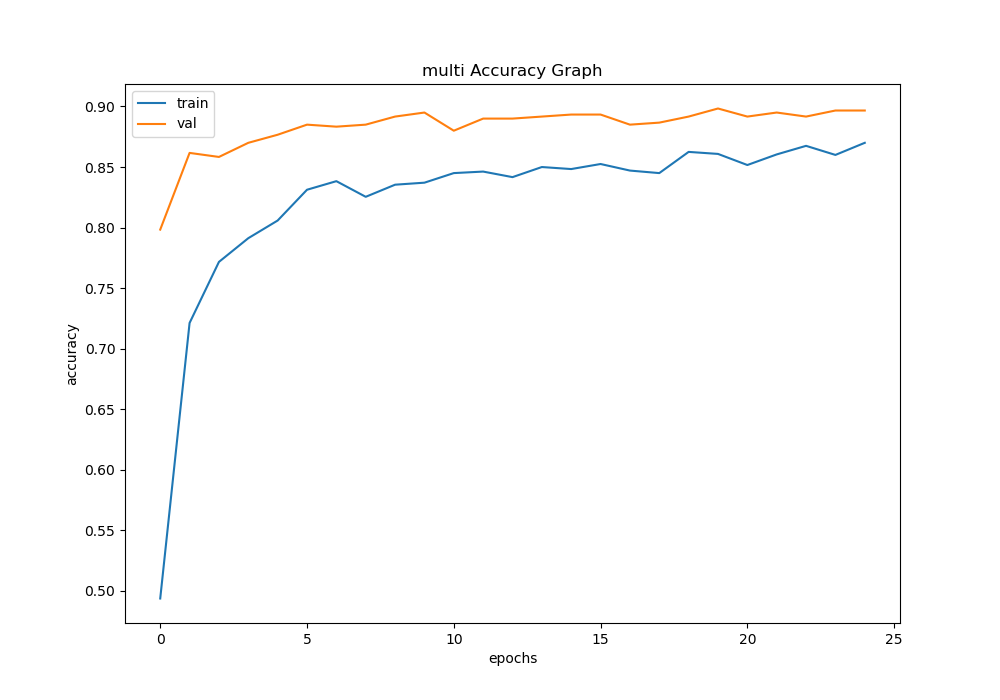
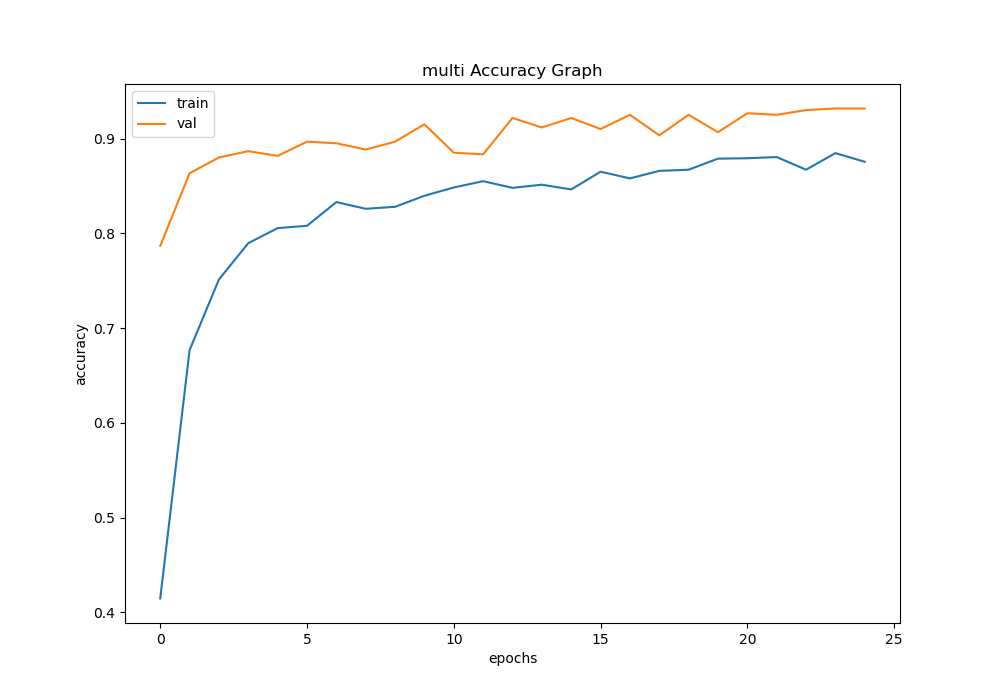
multimodel uses concat layer

diff --git a/prediction/prediction.py b/prediction/prediction.py
@@ -6,7 +6,7 @@ import cv2
 from tqdm import tqdm
 
 audionet_model_path = "C:/Users/Administrator/Desktop/Sam/Multimodal_Fusion/trained_models/audionet.h5"
-image_model_path = "C:/Users/Administrator/Desktop/Sam/Multimodal_Fusion/trained_models/resnet.h5"
+image_model_path = "C:/Users/Administrator/Desktop/Sam/Multimodal_Fusion/trained_models/resnet_80.h5"
 multi_model_path = "C:/Users/Administrator/Desktop/Sam/Multimodal_Fusion/trained_models/multimodal.h5"
 
 audionet = load_model(audionet_model_path)
@@ -21,10 +21,31 @@ multi_model = load_model(multi_model_path)
 
 labels = ["bird", "dog", "car"]
 
+
+def preprocess_mfcc(mfcc_):
+    mfcc = mfcc_.replace("[", "").replace("]", "")
+    mfcc = mfcc.replace("\n", "")
+    mfcc = mfcc.split()
+    mfcc = np.array(mfcc).astype(np.float32)
+    mfcc = mfcc.reshape(1, 40)
+
+    return mfcc
+
+
+def preprocess_img(img_path_):
+    image = cv2.imread(img_path_)
+    image = cv2.resize(image, (100, 100), cv2.INTER_LINEAR)
+    image = image / 255.0
+    image = np.array(image)
+    image = image.reshape(1, 100, 100, 3)
+
+    return image
+
+
 print("*********************************************************")
 
-# Audio prediction
-mfcc = '''[-3.27780884e+02  1.21065681e+02 -4.00812073e+01 -4.06821175e+01
+# Single audio and image prediction
+audio_mfcc = '''[-3.27780884e+02  1.21065681e+02 -4.00812073e+01 -4.06821175e+01
  -3.77676697e+01 -1.91292000e+01 -2.07194901e+01 -2.42134333e+00
  -2.60565434e+01  1.09487743e+01  1.23772955e+01  7.53735352e+00
   8.41231823e+00  6.79377794e+00 -6.95381212e+00 -1.46880264e+01
@@ -34,47 +55,30 @@ mfcc = '''[-3.27780884e+02  1.21065681e+02 -4.00812073e+01 -4.06821175e+01
  -1.35454893e+00  1.06728697e+00 -2.02247739e+00  2.17973781e+00
   2.66387272e+00  2.81490564e+00 -2.13995978e-01  4.38734554e-02
  -2.52553010e+00 -3.41716957e+00 -2.28755403e+00 -5.28283834e-01]'''
+img_path = "C:/Users/Administrator/Desktop/Sam/Multimodal_Fusion/my_coco/all/images/n02085782_82.jpg"
 
-# Process mfcc
-mfcc = mfcc.replace("[", "").replace("]", "")
-mfcc = mfcc.replace("\n", "")
-mfcc = mfcc.split()
-mfcc = np.array(mfcc).astype(np.float32)
-mfcc = mfcc.reshape(1, 40)
+# Process mfcc and image
+prep_mfcc = preprocess_mfcc(audio_mfcc)
+prep_img = preprocess_img(img_path)
 
 # Predict audio
-a1_pred = audionet.predict(mfcc.reshape(1, 40))
-
-# Extract audio features
-a2_pred = audionet2.predict(mfcc.reshape(1, 40))
+audio_pred = audionet.predict(prep_mfcc)
+img_pred = resnet.predict(prep_img)
+multi_pred = multi_model.predict([prep_mfcc, prep_img])
 
 # Print prediction and features
-print("audionet pred: ", labels[a1_pred.argmax()])
-print("confidence: ", round((a1_pred.max() * 100), 2))
-
-###################################################################################
-img_path = "C:/Users/Administrator/Desktop/Sam/Multimodal_Fusion/my_coco/all/images/n02085782_82.jpg"
-# img_path = "C:/Users/Administrator/Desktop/German-shepherd.jpg"
-img = cv2.imread(img_path)
-img = cv2.resize(img, (100, 100), cv2.INTER_LINEAR)
-img = img / 255.0
-img = np.array(img)
-img = img.reshape(1, 100, 100, 3)
-
-img_pred = resnet.predict(img)
-img_pred2 = resnet2.predict(img)
+print("Single Prediction")
+print("audionet pred: ", labels[audio_pred.argmax()])
+print("confidence: ", round((audio_pred.max() * 100), 2))
+print("")
 print("resnet pred: ", labels[img_pred.argmax()])
 print("confidence: ", round((img_pred.max() * 100), 2))
 print("")
-
-m_pred = multi_model.predict([mfcc, img])
-print("multi pred: ", labels[m_pred.argmax()])
-print("confidence: ", round((m_pred.max() * 100), 2))
+print("multi pred: ", labels[multi_pred.argmax()])
+print("confidence: ", round((multi_pred.max() * 100), 2))
 print("")
-####################################################################################
-# Multimodal prediction
 
-#
+# Batch prediction
 df = pd.read_csv('../data/multi/test.csv')
 
 mfccs = df['mfcc'].tolist()
@@ -87,47 +91,35 @@ total2 = 0
 total3 = 0
 
 for i, m in tqdm(enumerate(mfccs)):
-    m = m.replace("[", "").replace("]", "")
-    m = m.replace("\n", "")
-    m = m.split()
-    m = np.array(m).astype(np.float32)
-    m = m.reshape(1, 40)
+    m = preprocess_mfcc(m)
 
     image_path = img_base + images[i]
-    img = cv2.imread(image_path)
-    img = cv2.resize(img, (100, 100), cv2.INTER_LINEAR)
-    img = img / 255.0
-    img = np.array(img)
-    img = img.reshape(1, 100, 100, 3)
+    img = preprocess_img(image_path)
 
     multi_pred = multi_model.predict([m, img])
     img_pred = resnet.predict(img)
     a1_pred = audionet.predict(m)
 
-    m_pred1 = labels[multi_pred.argmax()]
+    m_pred = labels[multi_pred.argmax()]
     m_conf = round((multi_pred.max() * 100), 2)
 
-    i_pred1 = labels[img_pred.argmax()]
+    i_pred = labels[img_pred.argmax()]
     i_conf = round((img_pred.max() * 100), 2)
 
-    a_pred1 = labels[a1_pred.argmax()]
+    a_pred = labels[a1_pred.argmax()]
     a_conf = round((a1_pred.max() * 100), 2)
 
     true_label = true_labels[i]
 
-    if m_pred1 == true_label and m_conf > 50.0:
+    if m_pred == true_label and m_conf > 50.0:
         total1 += 1
 
-    if i_pred1 == true_label and i_conf > 50.0:
+    if i_pred == true_label and i_conf > 50.0:
         total2 += 1
 
-    if a_pred1 == true_label and a_conf > 50.0:
+    if a_pred == true_label and a_conf > 50.0:
         total3 += 1
-    print("predicted: ", labels[multi_pred.argmax()])
-    print("true label: ", true_labels[i])
-    print("confidence: ", round((multi_pred.max() * 100), 2))
-    # print("------------------------------")
 
-print("multi score: " + str(total1) + "/" + str(len(true_labels)))
-print("image score: " + str(total2) + "/" + str(len(true_labels)))
 print("audio score: " + str(total3) + "/" + str(len(true_labels)))
+print("image score: " + str(total2) + "/" + str(len(true_labels)))
+print("multi score: " + str(total1) + "/" + str(len(true_labels)))

diff --git a/models/model.py b/models/model.py
@@ -80,7 +80,7 @@ def multi_model(input_tensor1, input_tensor2, input_shape1, input_shape2, num_cl
 def multi_model2(audionet, resnet, num_classes):
     # audionet._name = 'audionet'
     # resnet._name = 'resnet'
-    merge = Add(name='merge_A')([audionet.output, resnet.output])
+    merge = Concatenate(name='concat_A')([audionet.output, resnet.output])
     fc = FC2(merge, num_classes)
     model = Model(inputs=[audionet.input, resnet.input], outputs=fc)
     return model
@@ -147,7 +147,7 @@ def audio_net2(input_shape, num_classes):
     model.add(Dropout(0.5, name='dropout_A'))
     model.add(Dense(1024, activation="relu", name='dense_B'))
     model.add(Dropout(0.5, name='dropout_B'))
-    model.add(Dense(64, activation="relu", name='dense_C'))
+    model.add(Dense(128, activation="relu", name='dense_C'))
     model.add(Dropout(0.5, name='dropout_C'))
     model.add(Dense(num_classes, activation="softmax", name='dense_D'))
 

diff --git a/training/multimodal_training.py b/training/multimodal_training.py
@@ -165,8 +165,8 @@ callbacks = create_callbacks()  # BEST_MODEL_PATH + name + file_ext, "loss", "mi
 # Building model
 print("Building model")
 
-audionet_model_path = "C:/Users/Administrator/Desktop/Sam/Multimodal_Fusion/trained_models/audionet.h5"
-image_model_path = "C:/Users/Administrator/Desktop/Sam/Multimodal_Fusion/trained_models/resnet.h5"
+audionet_model_path = "C:/Users/Administrator/Desktop/Sam/Multimodal_Fusion/trained_models/audionet_89.h5"
+image_model_path = "C:/Users/Administrator/Desktop/Sam/Multimodal_Fusion/trained_models/resnet_80.h5"
 
 audionet = load_model(audionet_model_path)
 audionet.trainable = False

diff --git a/training/image_training.py b/training/image_training.py
@@ -16,7 +16,7 @@ tf.random.set_seed(40)
 
 EPOCHS = 20
 INPUT_SHAPE = (100, 100, 3)
-BATCH_SIZE = 16
+BATCH_SIZE = 32
 NUM_CLASSES = 3
 VAL_SPLIT = 0.2
 
